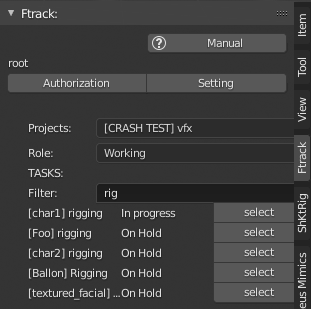
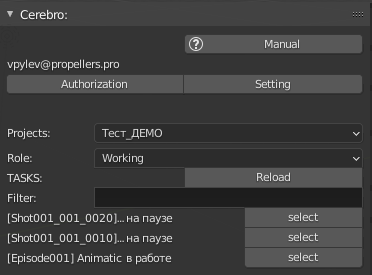
tasks list

diff --git a/docs/source/manual/tasks_list.rst b/docs/source/manual/tasks_list.rst
@@ -3,7 +3,7 @@
 Tasks List
 ==========
 
-Список задач назначенных на данного *юзера*, отображаемый при выборе проекта.
+Список задач назначенных на текущего пользователя, отображаемый при выборе проекта.
 
 .. image:: ../_static/images/tasks_list.png
 
@@ -12,7 +12,7 @@ Tasks List
 Projects:
 ~~~~~~~~~
 
-Раскрывающийся список проектов данной студии, при смене проекта - список задач перезагружается.
+Раскрывающийся список проектов данной студии, список задач перезагружается при смене проекта.
 
 .. _tasks_list_role:
 
@@ -21,14 +21,22 @@ Role:
 
 Роли для взаимодействия с задачами, на выбор две роли ``Working`` и ``Cheking``.
 
-* ``Working`` - отображается список задач для которых данный *юзер* назначен в качестве исполнителя.
+* ``Working`` - отображается список задач для которых текущий пользователь назначен в качестве исполнителя.
 
 	* статусы отображаемых задач все кроме завершённых.
 
-* ``Cheking`` - отображается список задач для которых данный *юзер* назначен как менеджер.
+* ``Cheking`` - отображается список задач на которые подписан текущий пользователь.
 	
-	* назначение менеджера должно быть или на ассет, или на папку с ассетами.	
-	* статус отображаемых задач один из :attr:`server_connect.CHEKING_STATUSES`.
+	* задачи отображаются в статусе *"на проверку"*.
+
+
+.. _reload_tasks_list_button:
+
+Reload button
+~~~~~~~~~~~~~
+
+:guilabel:`Reload` - перезагружает список задач текущего проекта.
+
 
 .. _tasks_list_filter:
 
@@ -42,4 +50,4 @@ Filter:
 Select button
 ~~~~~~~~~~~~~
 
-Кнопка напротив каждой задачи. Откроет :ref:`work-selected-panel-page` или :ref:`check-selected-panel-page` данной задачи в зависимости от :ref:`tasks_list_role`.
+:guilabel:`select` - Кнопка напротив каждой задачи. Откроет :ref:`work-selected-panel-page` или :ref:`check-selected-panel-page` данной задачи в зависимости от :ref:`tasks_list_role`.

diff --git a/docs/source/manual/settings.rst b/docs/source/manual/settings.rst
@@ -17,7 +17,7 @@
 
 .. image:: ../_static/images/projects_dir_setting.png
 
-* При этом название самой директории **Cerebro_Projects_Main** она будет создана в указанной директории.
+* При этом название самой директории **Cerebro_Projects_Main**, она будет создана в указанной директории.
 
 * Если выбрать саму директорию **Cerebro_Projects_Main** то ничего создаваться не будет и эта директория станет рабочей.
 
